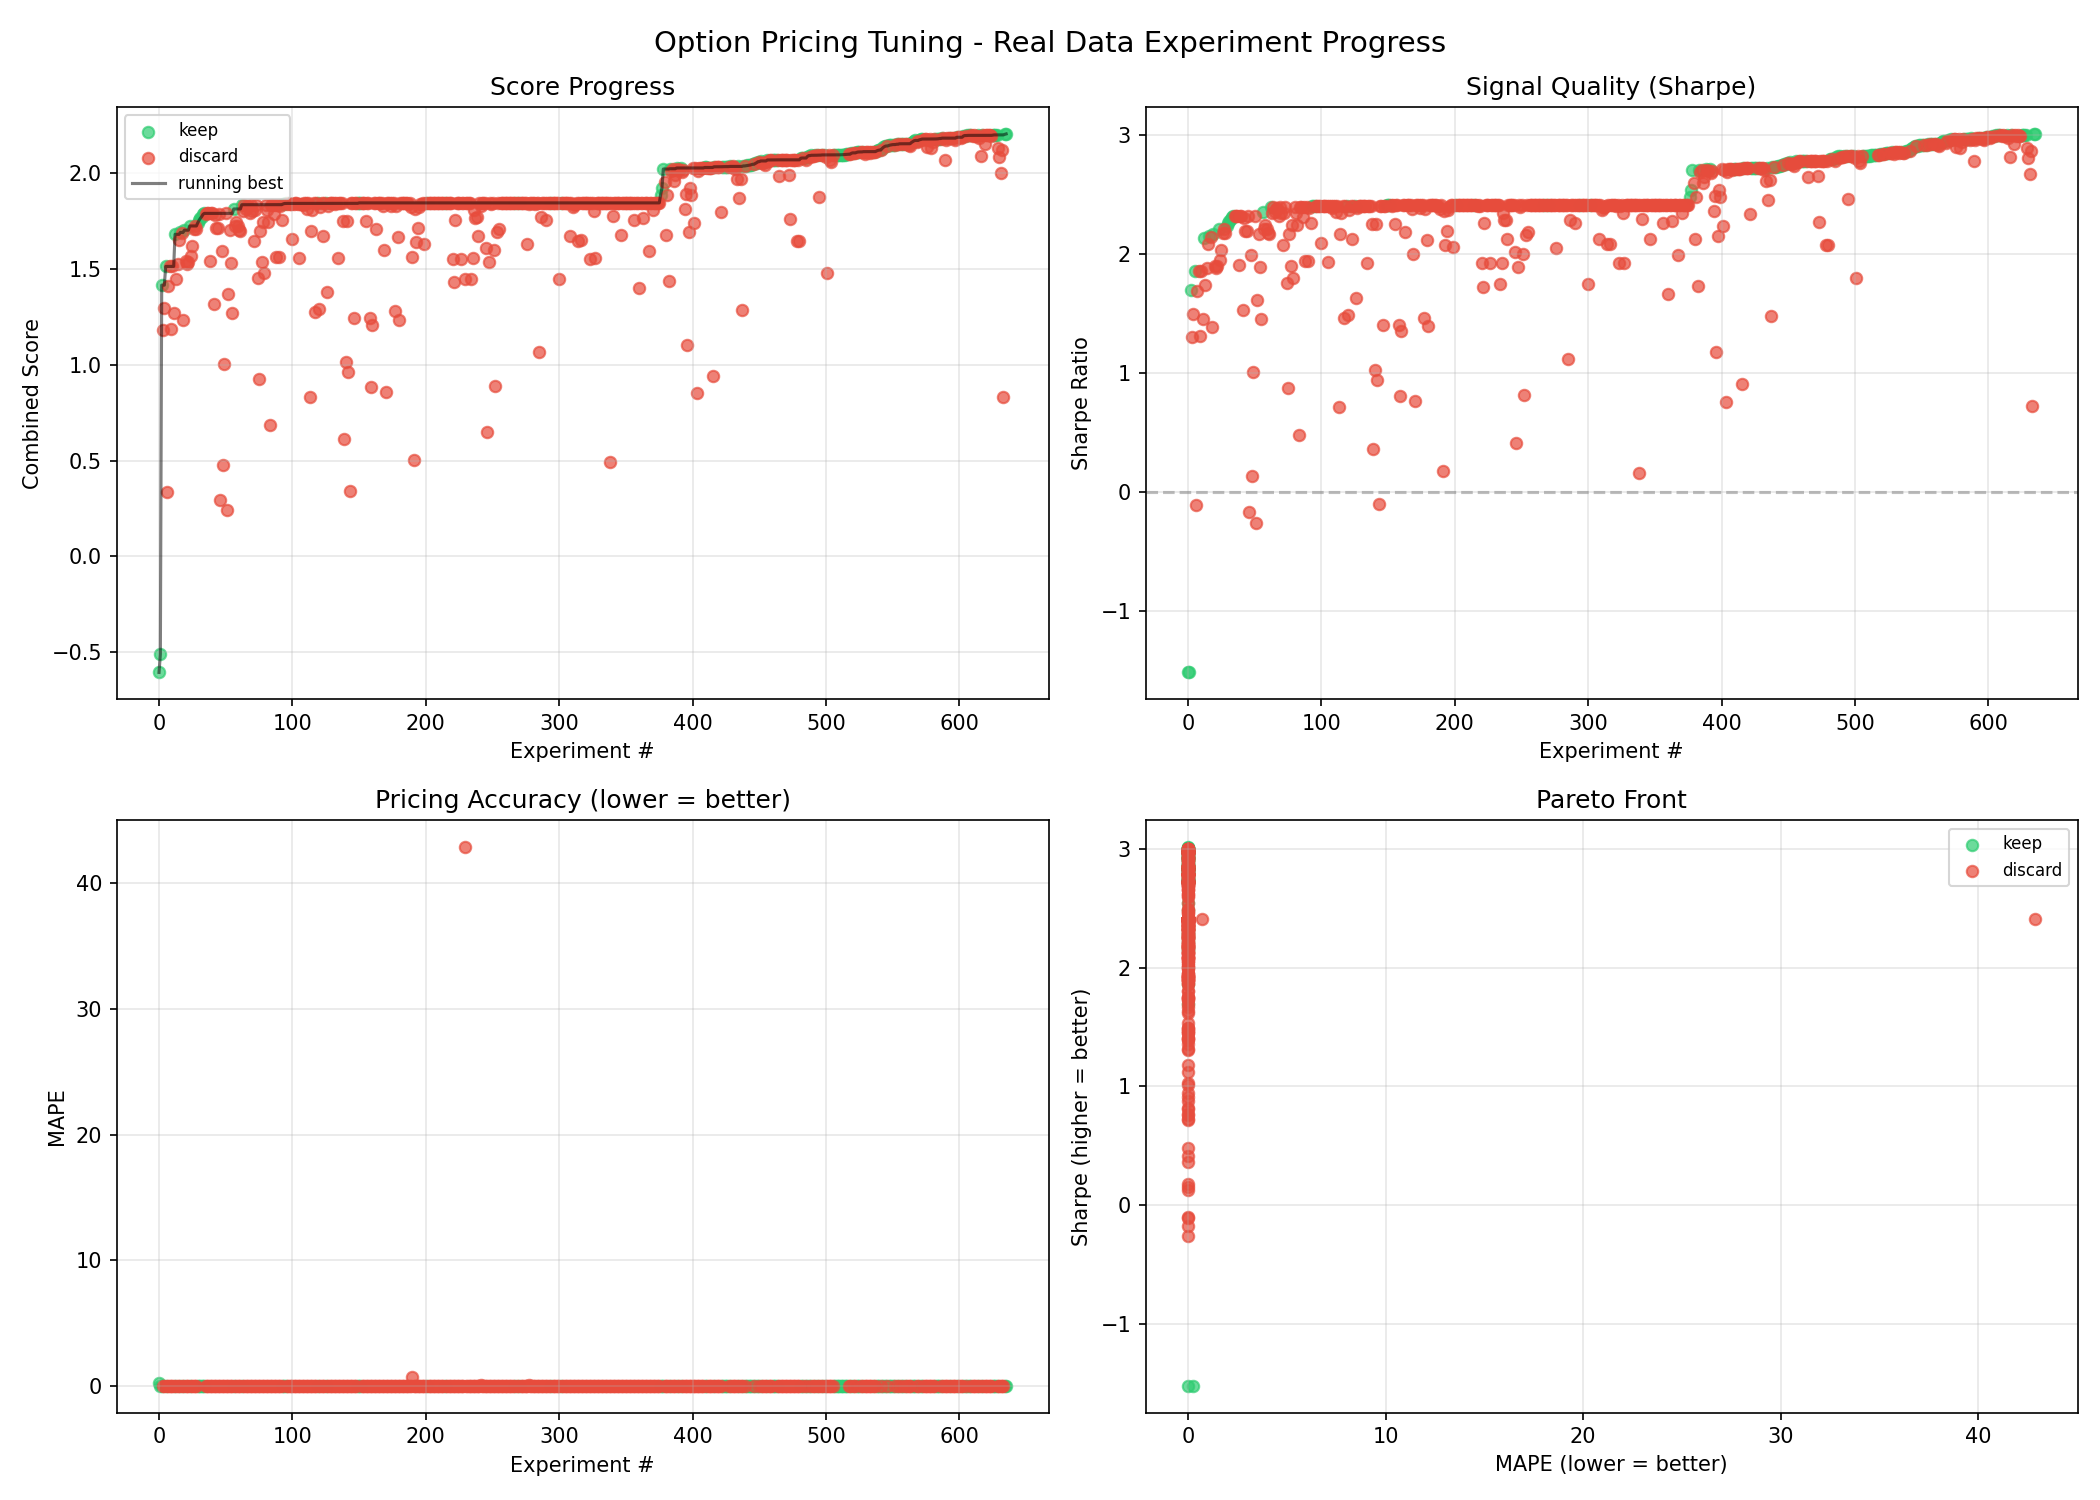
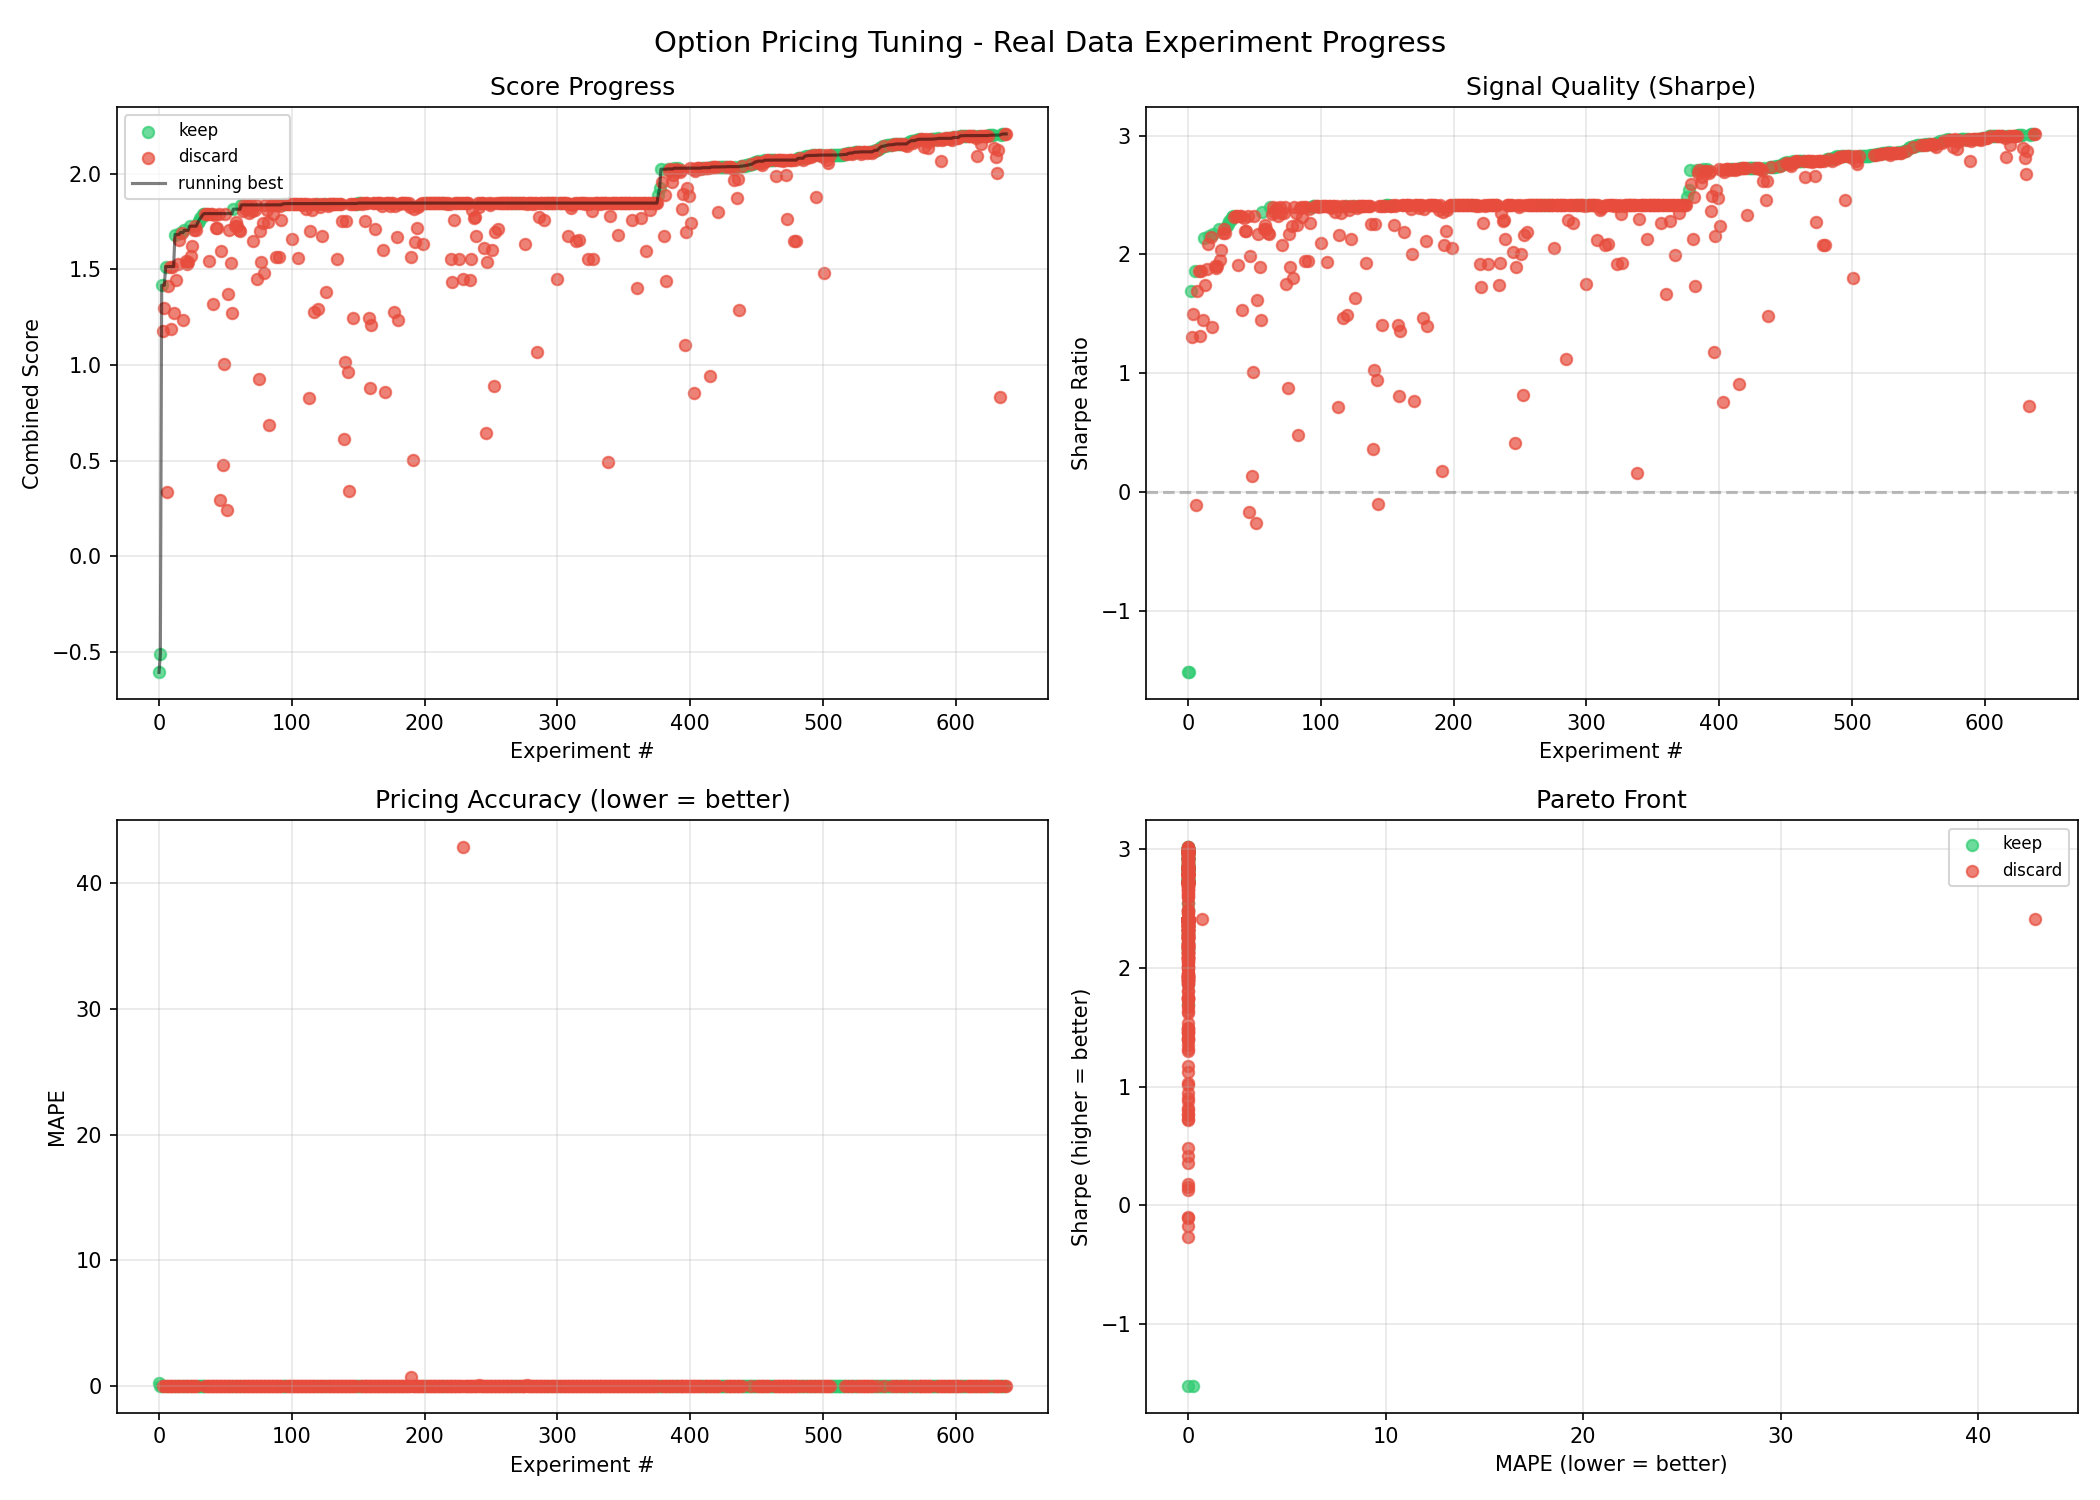
log exp639

diff --git a/README.md b/README.md
@@ -9,12 +9,12 @@ signals using **real stock market data** from Yahoo Finance.
 
 | Metric | Value |
 |---|---|
-| Combined Score | 2.2067 |
-| Sharpe Ratio | 3.0125 |
+| Combined Score | 2.2078 |
+| Sharpe Ratio | 3.0144 |
 | MAPE | 0.002003 |
 | Win Rate | 92.6% |
 | Trades | 27 |
-| Experiments | 636 (134 kept) |
+| Experiments | 639 (135 kept) |
 
 ## How It Works
 
